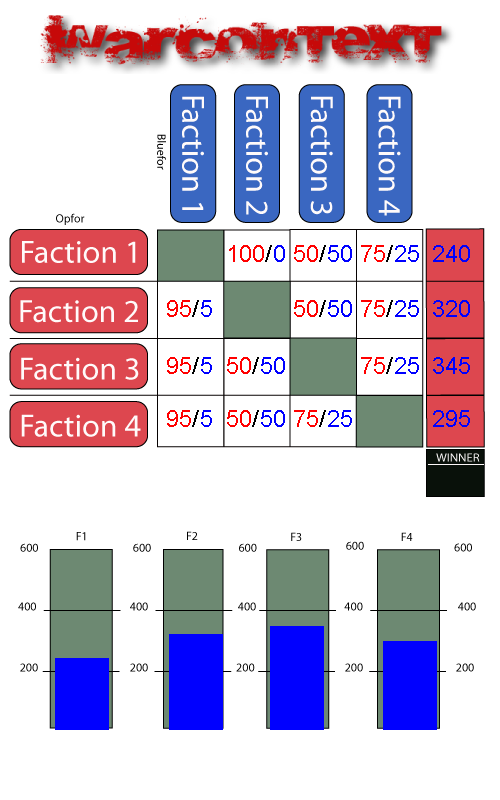
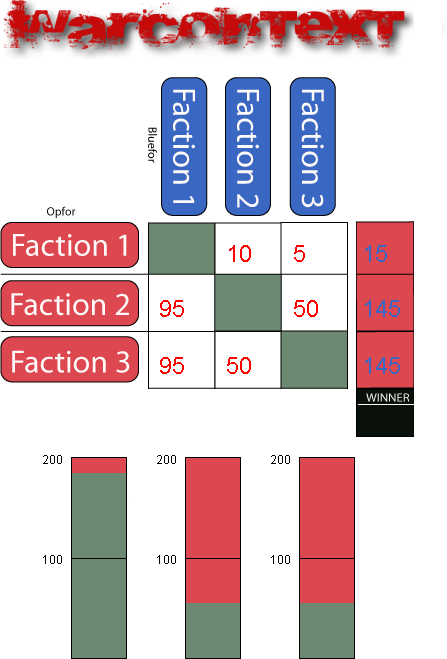
fonctionne

diff --git a/src/org/warcontext/go.java b/src/org/warcontext/go.java
@@ -6,7 +6,6 @@ import java.awt.event.ActionListener;
 import java.awt.image.BufferedImage;
 import java.io.File;
 import java.io.IOException;
-import java.util.Iterator;
 import java.util.StringTokenizer;
 
 import javax.imageio.ImageIO;
@@ -26,6 +25,8 @@ public class go extends JFrame implements ActionListener {
 	int imageheight;
 	Graphics2D g2d;
 	Data data;
+	int colorb, coloropfor, colorblue;
+	Font font2 = new Font("Arial", Font.PLAIN, 12);
 
 	public int getWidth() {
 		return imageWidth;
@@ -58,6 +59,9 @@ public class go extends JFrame implements ActionListener {
 
 		g2d.setFont(f);
 		// g2d.drawString(s, 165, 265);
+		colorb = bimg.getRGB(176, 246); 
+		coloropfor = bimg.getRGB(382, 246);
+		colorblue = bimg.getRGB(198, 120);
 
 		img = new ImageIcon(bimg);
 		label = new JLabel(img);
@@ -70,8 +74,8 @@ public class go extends JFrame implements ActionListener {
 
 	}
 
-	private void computescore(Integer x, Integer y, Integer valx, Integer valy) {
-		data.setPoints(valx, x);
+	private void computescore( Integer y, Integer valy) {
+		
 		data.setPoints(valy, y);
 	}
 
@@ -91,11 +95,11 @@ public class go extends JFrame implements ActionListener {
 		Integer x = 0;
 		Integer depx = 0;
 		Integer oldx = 0;
-		Integer y[] = new Integer[4];
+		Integer y[] = new Integer[3];
 		y[0] = 262;
 		y[1] = 317;
 		y[2] = 374;
-		y[3] = 427;
+		
 		//
 		// Tableau
 		//
@@ -112,22 +116,14 @@ public class go extends JFrame implements ActionListener {
 			while (st.hasMoreElements()) {
 
 				val = st.nextToken();
-				String[] valsplit = val.split("/");
 				if (!val.contentEquals(sNull)) {
 					oldx = x;
-					if (val.length() == 4) {
+					if (val.length() == 3) {
 						x += 7;
 					}
 					g2d.setColor(Color.RED);
-					g2d.drawString(valsplit[0], x, y[noline]);
-					g2d.setColor(Color.BLACK);
-					x += valsplit[0].length() * 13;
-					g2d.drawString("/", x, y[noline]);
-					g2d.setColor(Color.BLUE);
-					x += 8;
-					g2d.drawString(valsplit[1], x, y[noline]);
-					computescore(noCol, noline, Integer.valueOf(valsplit[1]),
-							Integer.valueOf(valsplit[0]));
+					g2d.drawString(val, x, y[noline]);
+					computescore( noline, Integer.valueOf(val));
 					
 
 					x = oldx;
@@ -137,16 +133,42 @@ public class go extends JFrame implements ActionListener {
 			}
 		}
 		// Draw total team points and bar chart
-		Integer xpos[] = new Integer[4];
-		xpos[0] = 55;
-		xpos[1] = 169;
-		xpos[2] = 270;
-		xpos[3] = 383;
+		Integer xpos[] = new Integer[3];
+		Integer maxpoint = 200;
+		
+		xpos[0] = 72;
+		xpos[1] = 186;
+		xpos[2] = 300;
+		
+		int colorb = bimg.getRGB(176, 246); 
+		int coloropfor = bimg.getRGB(382, 246);
+		int colorblue = bimg.getRGB(198, 120);
 		for (int i = 0; i < data.points.length; i++) {
-			g2d.drawString(String.valueOf(data.getPoints(i)), 432, y[i]);
-			g2d.fillRect(xpos[i],730-pointtopixel(data.getPoints(i)),  54, pointtopixel(data.getPoints(i)));
+			g2d.setColor(new Color(colorb));
+			g2d.fillRect(xpos[i],658-maxpoint,  54, maxpoint);
+			g2d.setColor(Color.BLACK);
+			g2d.drawRect(xpos[i]-1,658-maxpoint-1,  55, maxpoint+1);
+			
+			g2d.setColor(new Color(colorblue));
+			g2d.drawString(String.valueOf(data.getPoints(i)), 362, y[i]);
+			g2d.setColor(new Color(coloropfor));
+			g2d.fillRect(xpos[i],658-maxpoint,  54, data.getPoints(i));
+			
+			
+			
 			
 		}
+		
+		g2d.setColor(Color.BLACK);
+		g2d.setFont(font2);
+		for (int i = 0; i < data.points.length; i++) {		
+			g2d.drawLine(xpos[i], 658-(maxpoint/2), xpos[i]+54, 658-(maxpoint/2));
+			g2d.drawString("200", xpos[i] - 30, 658-maxpoint+6);
+			g2d.drawString("100", xpos[i] - 30, 658-(maxpoint/2)+6);
+						
+		}
+		
+	
 
 
 		

diff --git a/src/org/warcontext/Data.java b/src/org/warcontext/Data.java
@@ -9,7 +9,7 @@ public class Data {
 
 	BufferedReader br;
 	FileReader fr;
-	private int size = 4;
+	private int size = 3;
 	String[] lines = new String[size];
 	Integer[] points = new Integer[size];
 
